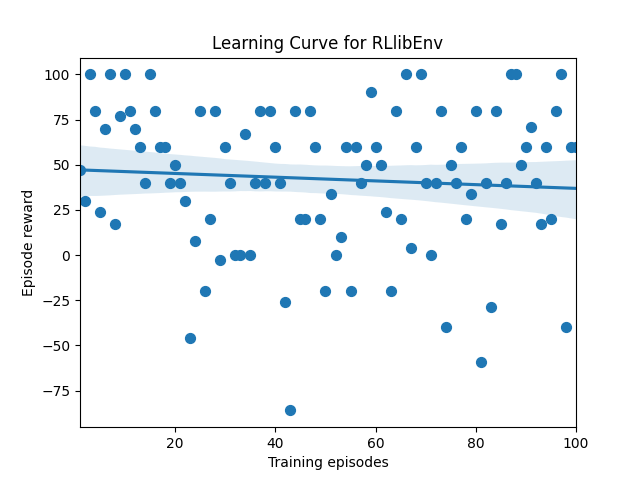
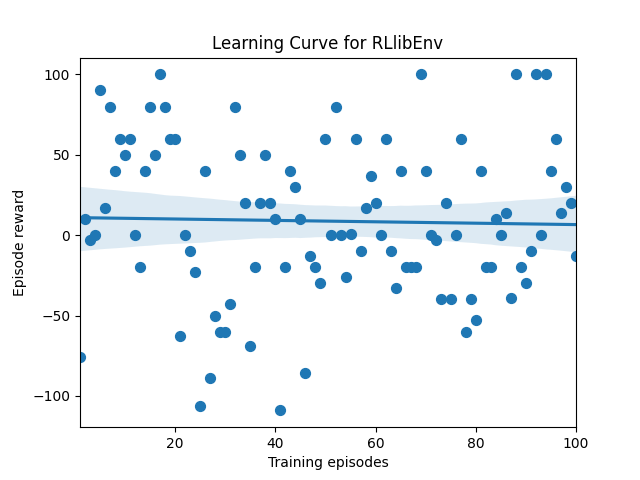
trying to configure the path for saving stats

diff --git a/rllib-example.py b/rllib-example.py
@@ -69,22 +69,22 @@ config['env'] = TunnelEnv
 config['env_config'] = env_config
 
 # PPO-specific config: https://docs.ray.io/en/latest/rllib-algorithms.html#ppo
-# config['train_batch_size'] = 150    # default 4000 for PPO; must be larger than mini batch size 128
+config['train_batch_size'] = 200    # default 4000 for PPO; must be larger than mini batch size 128
 # sgd_minibatch_size
 
 # stop configuration (how long to train)
 # can contain any field in the returned results by train()
 # stops when any of the criteria is met
 stop = {
-    'training_iteration': 20,
-    'timesteps_total': 40
+    'training_iteration': 1,
+    'timesteps_total': 10
 }
 # timesteps_total is overruled by train_batch_size
 
 # train on custom env
-trainer = ppo.PPOTrainer(config=config, env=TunnelEnv)
-result = trainer.train()
-print(pretty_print(result))
+# trainer = ppo.PPOTrainer(config=config, env=TunnelEnv)
+# result = trainer.train()
+# print(pretty_print(result))
 # for i in range(1):
 #     # by default this runs 1 training iteration of 4000 time steps
 #     result = trainer.train()
@@ -94,15 +94,16 @@ print(pretty_print(result))
 # results = tune.run('PPO', config=config, stop=stop, checkpoint_at_end=True)
 
 # custom training workflow: https://github.com/ray-project/ray/blob/master/rllib/examples/custom_train_fn.py
-# def custom_train(config, reporter):
-#     agent = ppo.PPOTrainer(env=TunnelEnv, config=config)
-#     for _ in range(3):
-#         result = agent.train()
-#         reporter(**result)
-#     saved = agent.save()
-#     print(saved)
-#
-# results = tune.run(custom_train, config=config, stop=stop)
+def custom_train(config, reporter):
+    agent = ppo.PPOTrainer(env=TunnelEnv, config=config)
+    for _ in range(1):
+        result = agent.train()
+        reporter(**result)
+    saved = agent.save()
+    print(saved)
+
+# FIXME: results/stats are still saved at ray_results; not at the local_dir; it does work!!!
+results = tune.run(custom_train, config=config, stop=stop, local_dir='.')
 
 # train on cartpole
 # trainer = ppo.PPOTrainer(config=config, env="CartPole-v0")

diff --git a/drl_mobile/env/simulation.py b/drl_mobile/env/simulation.py
@@ -83,6 +83,7 @@ class Simulation:
             results = self.agent.train()
             self.log.debug('Train iteration done', train_iter=i, results=results)
         eps_results = results['hist_stats']
+        # FIXME: this only contains the last 100 episodes --> not useful; instead properly configer the log dir and then plot progress.csv
         self.plot_training_results(eps_results['episode_lengths'], eps_results['episode_reward'])
 
     def save_animation(self, fig, patches, mode, save_dir):

diff --git a/drl_mobile/main.py b/drl_mobile/main.py
@@ -137,7 +137,7 @@ if __name__ == "__main__":
     if train:
         # sim.train_rllib(train_steps=train_steps, save_dir=training_dir, plot=True)
         # here, train_iter is the number of iterations not total training steps (which is much larger)
-        sim.train_rllib(train_iter=10, save_dir=None, plot=True)
+        sim.train_rllib(train_iter=5, save_dir=None, plot=True)
 
     # TODO: adjust/debug test & evaluation
     # simulate one run

diff --git a/README.md b/README.md
@@ -88,7 +88,7 @@ Dev plan:
 * `config['train_batch_size'] >= config['sgd_minibatch_size']`
 * I still don't quite get the details. Sometimes, `config['sgd_minibatch_size']` is ignored and RLlib just trains longer.
 * In the results of each training iteration, 
-    * `results['hist_stats']['episode_reward']` is a list of all episode rewards from all training iterations so far. Useful for plotting.
+    * `results['hist_stats']['episode_reward']` is a list of the last 100 episode rewards from all training iterations so far. Useful for plotting.
     * `results['info']['num_steps_trained']` shows the total number of training steps, 
     * which is at most `results['info']['num_steps_sampled']`, based on the `train_batch_size`
 
